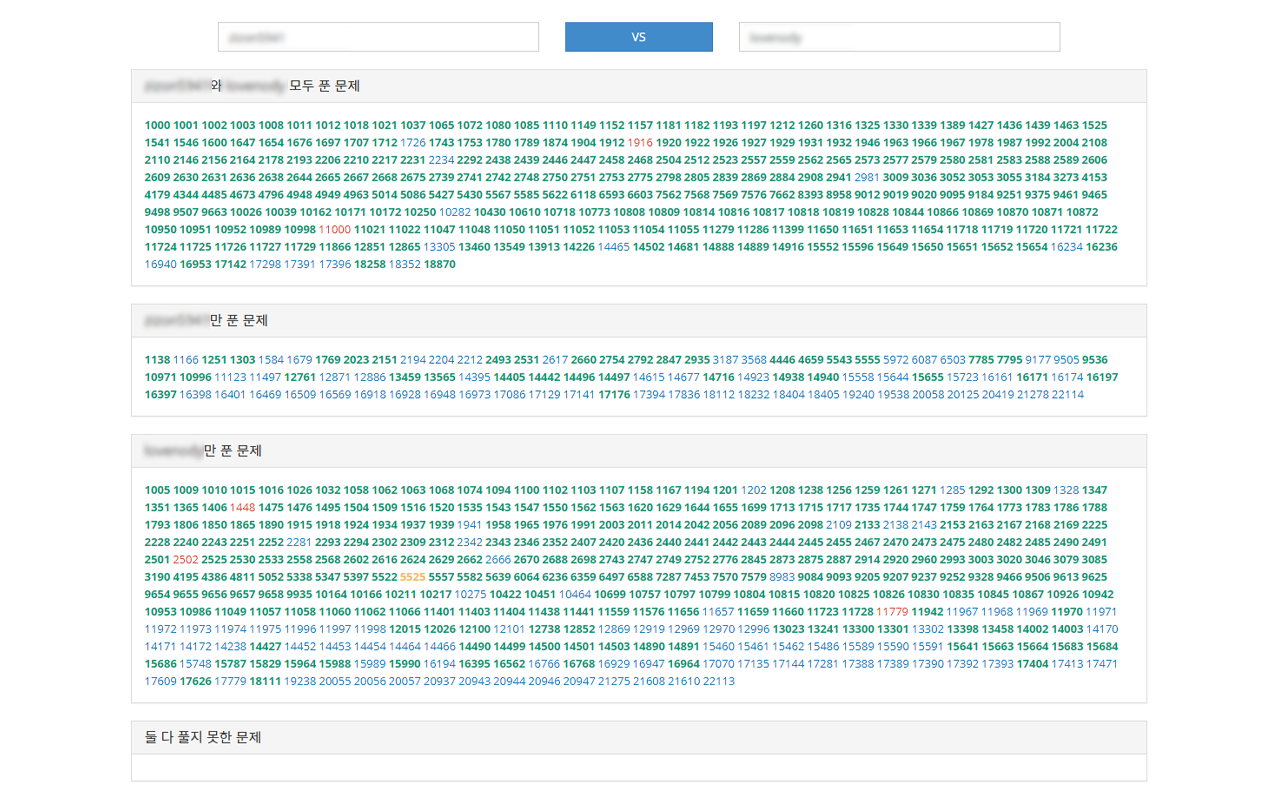
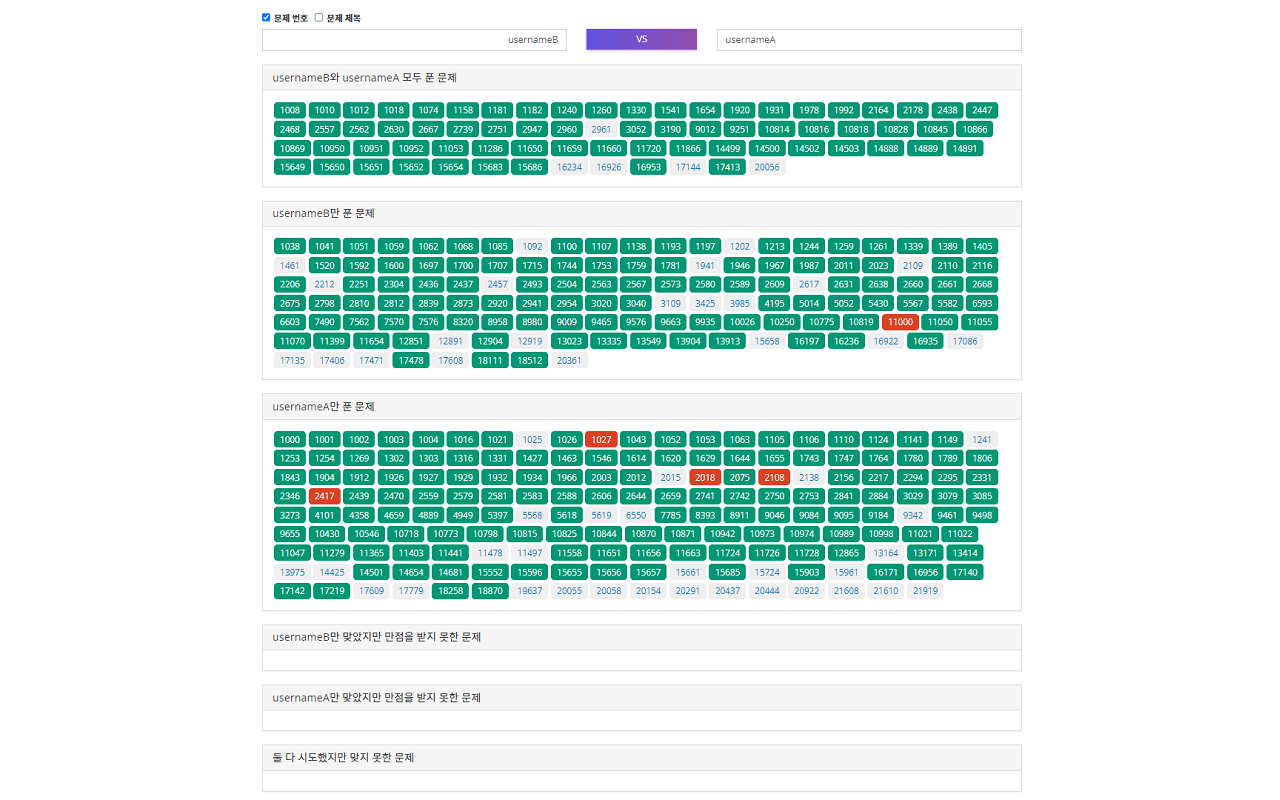
docs: update screenshot images

diff --git a/README.md b/README.md
@@ -14,10 +14,10 @@
 | [![Status Page](docs/images/screenshot-status.png)][3] |   [![Wide Screen](docs/images/screenshot-wide.png)][4]    |
 |                    **문제 타이머**                     |                      **문제 타이머**                      |
 |    [![Timer](docs/images/screenshot-timer2.png)][5]    |   [![Timer List](docs/images/screenshot-timer.png)][6]    |
-|                        **설정**                        |                       **빠른 검색**                       |
-|   [![Option](docs/images/screenshot-option.png)][7]    | [![Quick Search](docs/images/screenshot-search.png)][10]  |
-|                        **그룹**                        |                                                           |
-| [![Groups](docs/images/screenshot-group-list.png)][9]  |                                                           |
+|                        **설정**                        |                     **유저 비교(VS)**                     |
+|   [![Option](docs/images/screenshot-option.png)][7]    |    [![Quick Search](docs/images/screenshot-vs.png)][8]    |
+|                        **그룹**                        |                       **빠른 검색**                       |
+| [![Groups](docs/images/screenshot-group-list.png)][9]  | [![Quick Search](docs/images/screenshot-search.png)][10]  |
 
 ## 설치 및 사용
 
